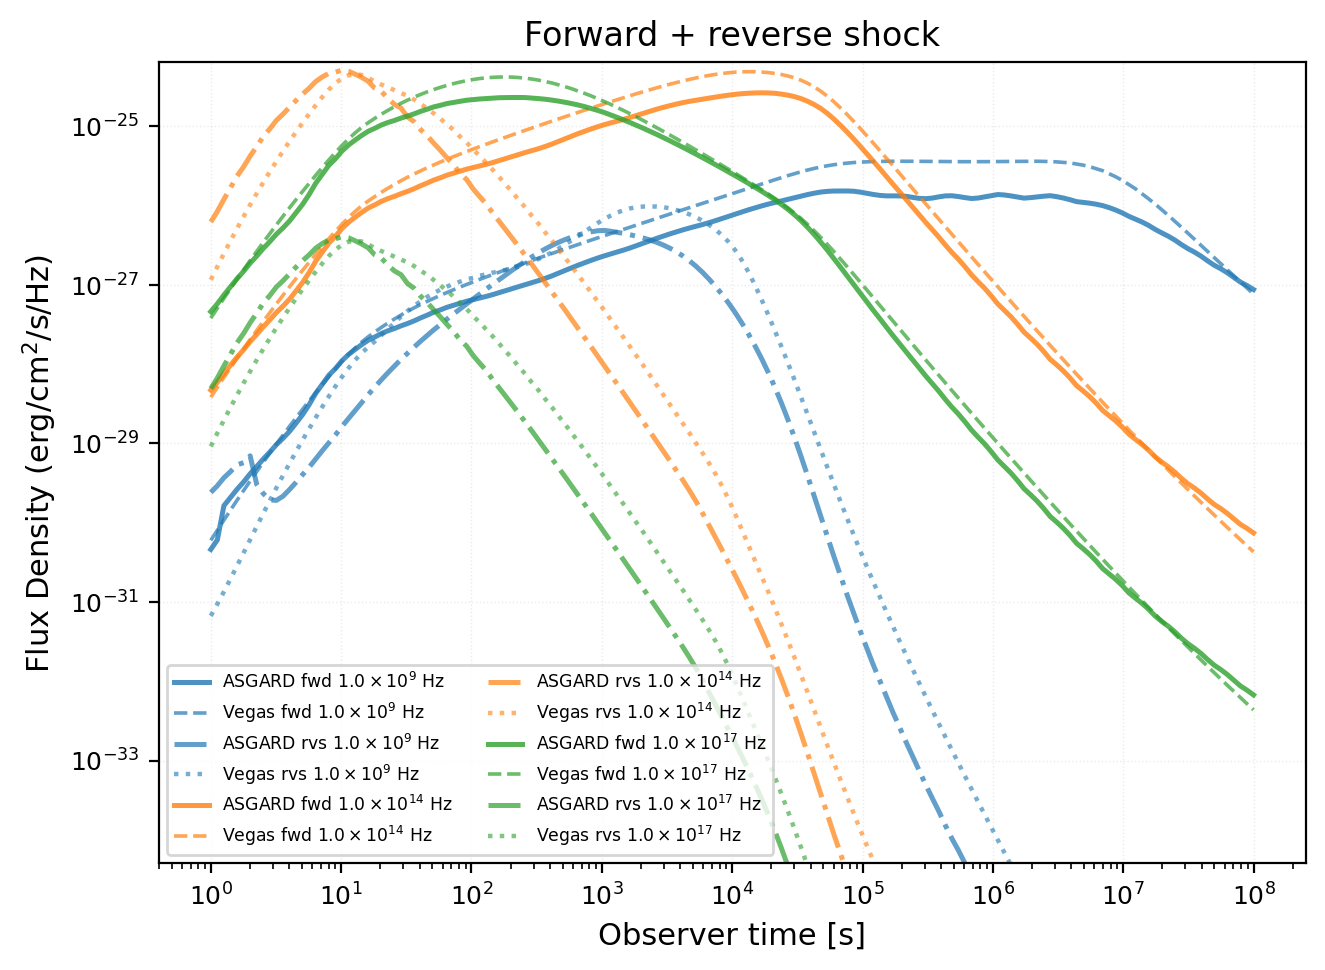
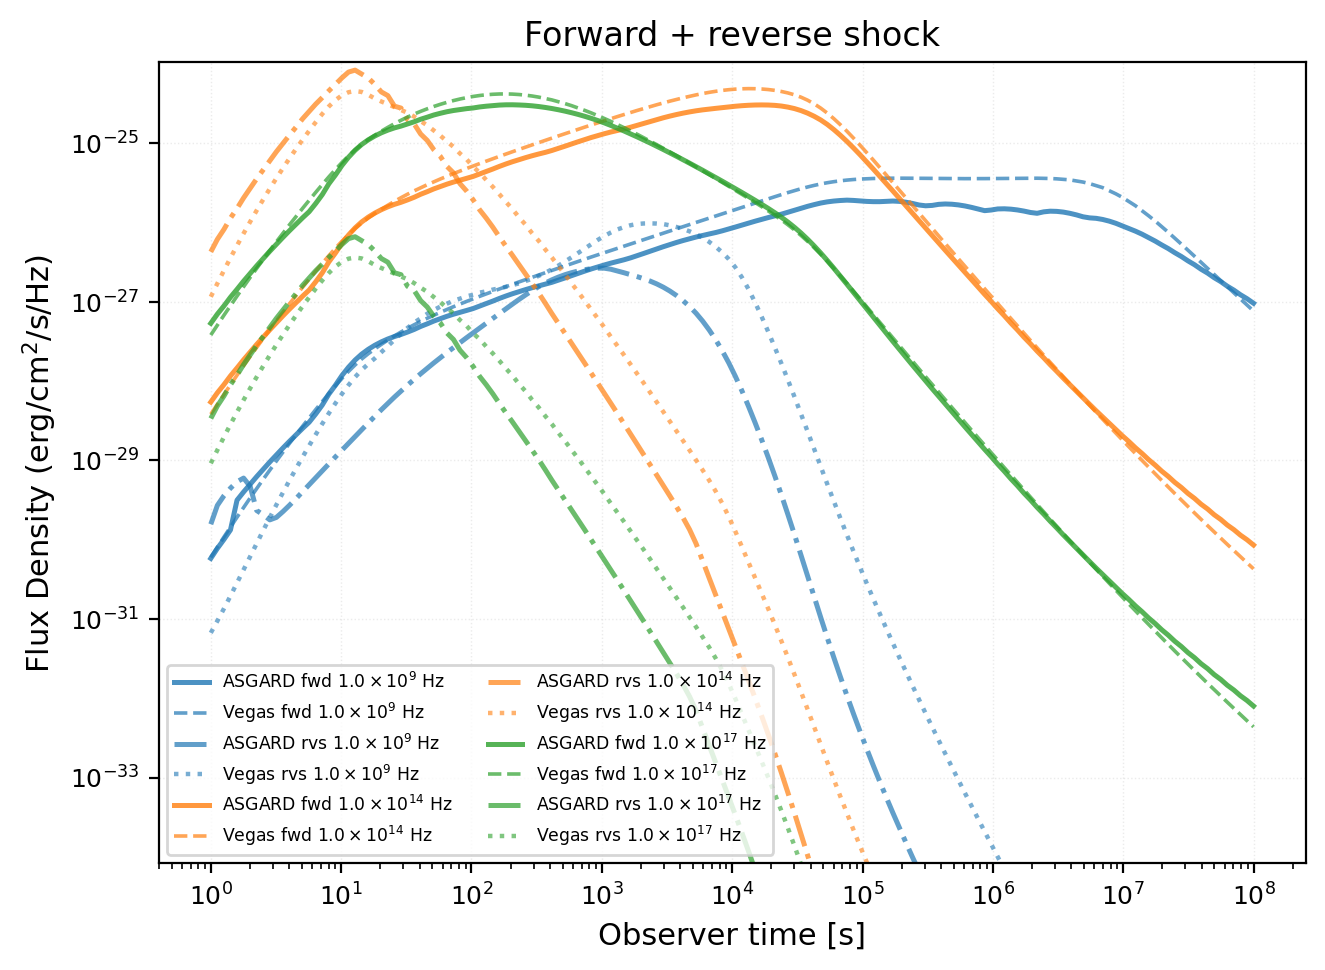
fix: stabilize reverse shock observer grids

diff --git a/tests/polarization_smoke.py b/tests/polarization_smoke.py
@@ -149,6 +149,47 @@ def test_surface_element_projection_scales_with_solid_angle() -> None:
     assert np.allclose(flux_double, 2.0 * flux, rtol=1.0e-13, atol=0.0)
 
 
+def test_surface_element_projection_uses_linear_time_reconstruction() -> None:
+    boundary = np.ones(24, dtype=float)
+    boundary[7] = 0.0
+    boundary[9] = 0.0
+    gamma = np.array([2.0, 2.0], dtype=float)
+    beta = np.sqrt(1.0 - gamma[0] ** -2)
+    doppler_den = gamma[0] * (1.0 - beta)
+    radius = np.array([1.0e15, 1.1e15], dtype=float)
+    t0 = np.array([1.0, 3.0], dtype=float)
+    seed = np.array([1.0e10, 2.0e10, 4.0e10], dtype=float)
+    observed = np.array([seed[1] / doppler_den], dtype=float)
+    source = np.column_stack([np.ones(seed.size), np.zeros(seed.size)])
+    endpoint, midpoint = Interpolation.sed_interpolation_surface_element(
+        boundary,
+        t0,
+        gamma,
+        radius,
+        source,
+        seed,
+        observed,
+        np.array([1.0, 2.0], dtype=float),
+        1.0e-4,
+    )[0]
+    assert midpoint / endpoint > 0.49
+    assert midpoint / endpoint < 0.51
+    source_with_cutoff = np.column_stack([np.array([0.0, 1.0, 1.0]), np.zeros(seed.size)])
+    cutoff_flux = Interpolation.sed_interpolation_surface_element(
+        boundary,
+        t0,
+        gamma,
+        radius,
+        source_with_cutoff,
+        seed,
+        np.array([np.sqrt(seed[0] * seed[1]) / doppler_den], dtype=float),
+        np.array([2.0], dtype=float),
+        1.0e-4,
+    )[0, 0]
+    assert np.isfinite(cutoff_flux)
+    assert cutoff_flux > 0.0
+
+
 def test_hadronic_polarization_kernel_powerlaw_limit() -> None:
     energy = np.logspace(0.0, 10.0, 128) * constants.para_m_p_gev
     density = energy ** -2.3
@@ -206,6 +247,7 @@ def main() -> None:
     test_reverse_and_hadronic_synchrotron_components()
     test_fortran_polarization_kernel_conserves_intensity()
     test_surface_element_projection_scales_with_solid_angle()
+    test_surface_element_projection_uses_linear_time_reconstruction()
     test_hadronic_polarization_kernel_powerlaw_limit()
     test_fortran_polarization_kernel_tracks_curved_spectrum()
     test_hadronic_polarization_kernel_tracks_curved_spectrum()

diff --git a/tests/reverse_shock_smoke.py b/tests/reverse_shock_smoke.py
@@ -12,6 +12,8 @@ if str(ROOT) not in sys.path:
 
 from ASGARD import run_fit
 from asgard_core.asgard_config import FitConfig, ReverseShockConfig
+from asgard_core.asgard_setup import build_simulation_setup
+from asgard_core.asgard_runtime import solve_dynamics
 from asgard_core.asgard_state import make_query_setup, solve_state_from_setup
 
 
@@ -99,11 +101,22 @@ def _run_magnetized_interface() -> None:
     assert np.all(rs.comoving_volume_cm3 > 0.0)
 
 
+def _run_dense_radius_grid() -> None:
+    config = _config(0)
+    config.num_r = 220
+    setup = build_simulation_setup(config)
+    dynamics = solve_dynamics(setup.boundary, config)
+    radius = np.asarray(dynamics.radius, dtype=float)
+    assert np.all(np.diff(radius) > 0.0)
+    assert radius[1] - radius[0] > np.spacing(radius[0])
+
+
 def main() -> None:
     for index_y in (0, 3):
         _run(index_y)
     _run_sigma_zero_baseline()
     _run_magnetized_interface()
+    _run_dense_radius_grid()
     print("reverse-shock-smoke-ok")
 
 

diff --git a/asgard_core/asgard_runtime.py b/asgard_core/asgard_runtime.py
@@ -1870,10 +1870,14 @@ def _solve_reverse_shock_electrons(
         para_m_ej,
         dynamics.reverse_shock.t_cross,
         dynamics.reverse_shock.r_cross,
+        dynamics.reverse_shock.u3_cross_erg,
+        dynamics.reverse_shock.m3_cross_g,
         dynamics.r_tobs,
         dynamics.r_gamma,
         dynamics.radius,
         dynamics.reverse_shock.magnetic_field_g,
+        dynamics.reverse_shock.swept_mass_g,
+        dynamics.reverse_shock.internal_energy_erg,
         v_seed,
         config.num_gam_e,
         config.index_y,
